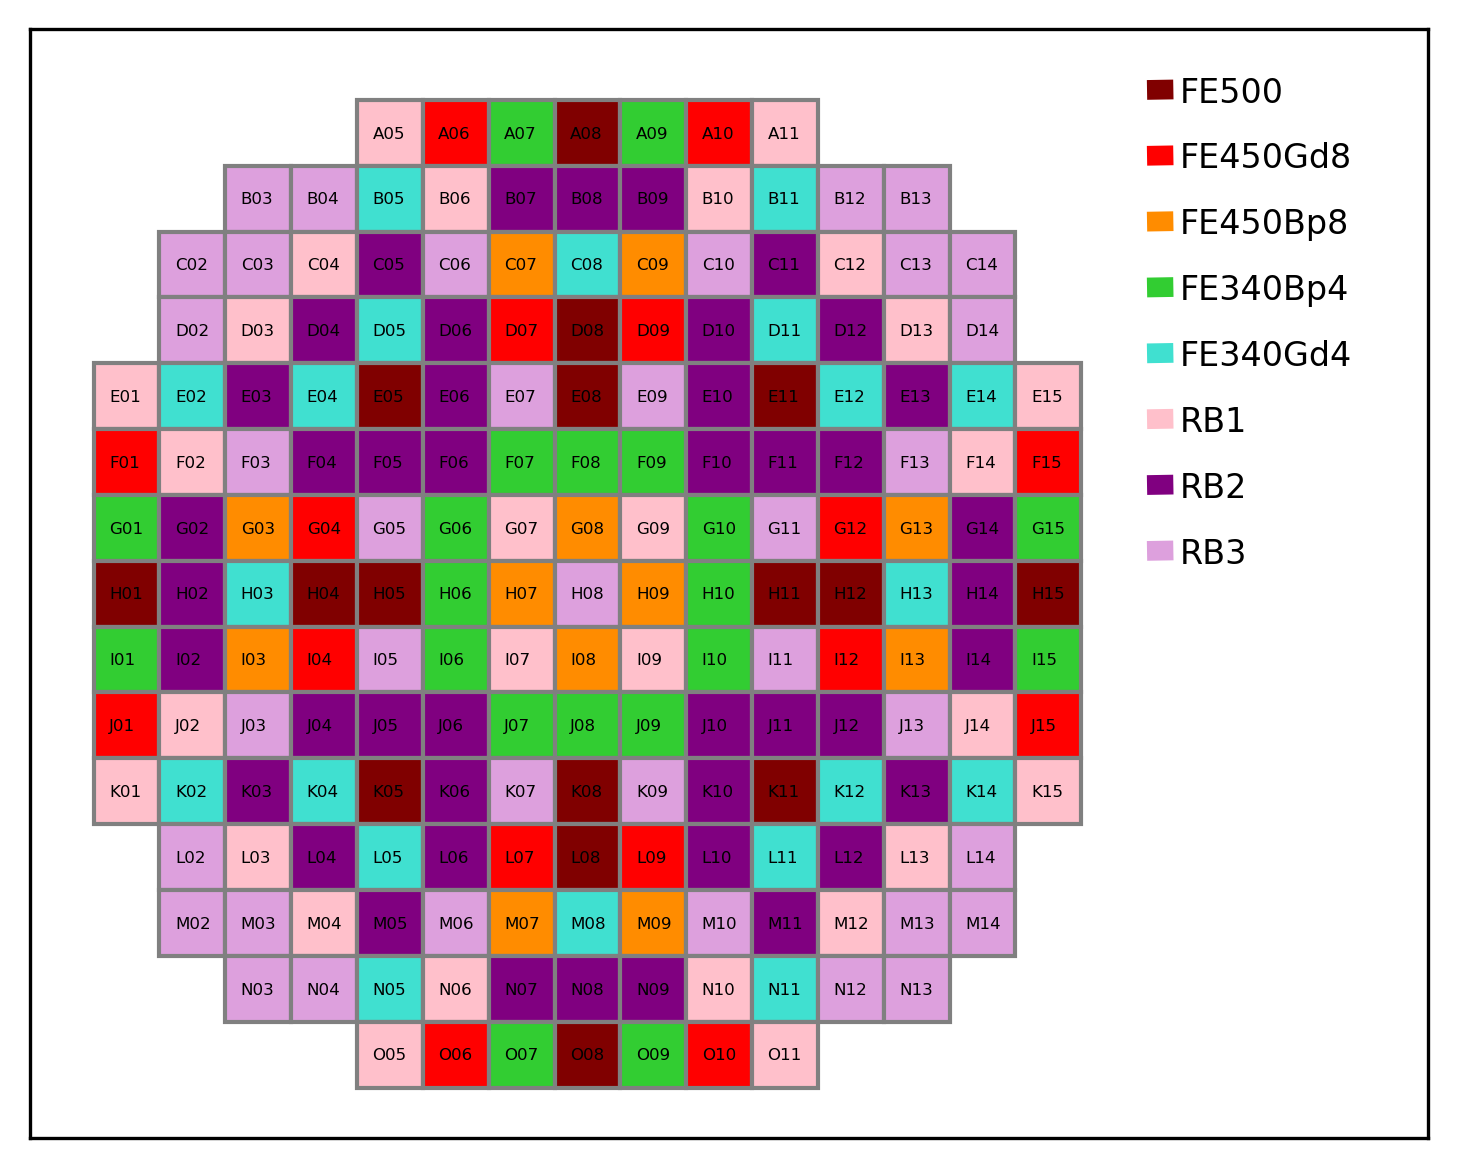
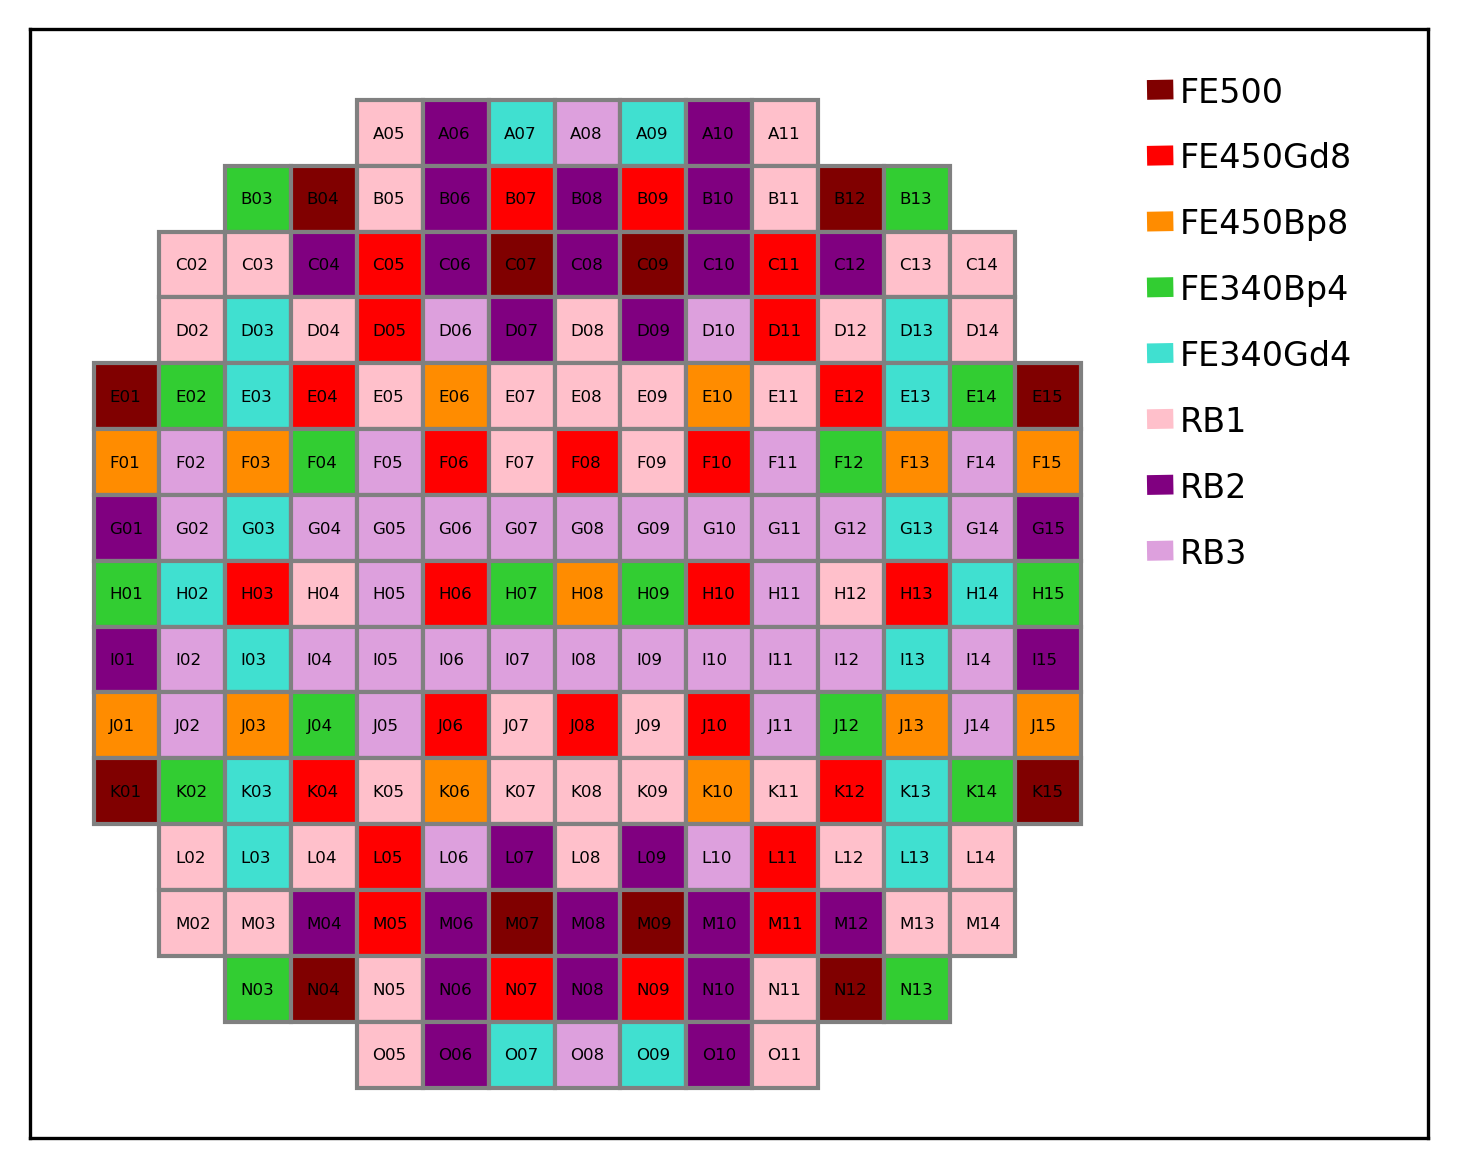
update

diff --git a/core_optimization.py b/core_optimization.py
@@ -318,8 +318,30 @@ class Simulate3_Core_17_17():
 
         Written by Gregory Delipei 7/14/2022
         """
-        pass
+        avail_actions = self.get_actions()
+        action_type = act['Type']
+        action_location = act['Location']
+        action = act['Value']
 
+        if action in avail_actions[action_type][action_location]:
+            if action_type =='Exchange':
+                loc_value = self.core_dict['core'][action_location]['Value']
+                action_value = self.core_dict['core'][action]['Value']
+                self.core_dict['core'][action_location]['Value'] = action_value
+                self.core_dict['fuel'][action_location]['Value'] = action_value
+                self.core_dict['core'][action]['Value'] = loc_value
+                self.core_dict['fuel'][action]['Value'] = loc_value
+            elif action_type=='Change':
+                loc_value = self.core_dict['core'][action_location]['Value']
+                loc_symmetry=len(self.core_dict['fuel'][action_location]['Symmetric_Assemblies'])+1
+                self.core_dict['core'][action_location]['Value'] = action
+                self.core_dict['fuel'][action_location]['Value'] = action
+                self.core_dict['Inventory'][loc_value]['In_Design']-=loc_symmetry
+                self.core_dict['Inventory'][action]['In_Design']+=loc_symmetry
+        else:
+            raise ValueError(
+                f"The selected action is not valid."
+            )
         return
 
     def get_actions(self):
@@ -518,15 +540,15 @@ if __name__ == "__main__":
 
 
     core_inventory={'FE500': {'Max_Limit':np.inf, 'In_Design':0, 'Cost':0, 'Tag':'E500'},
-                    'FE450Gd8': {'Max_Limit':20, 'In_Design':0, 'Cost':0, 'Tag':'FE450Gd8'},
-                    'FE450Bp8': {'Max_Limit':20, 'In_Design':0, 'Cost':0, 'Tag':'FE450Bp8'},
+                    'FE450Gd8': {'Max_Limit':48, 'In_Design':0, 'Cost':0, 'Tag':'FE450Gd8'},
+                    'FE450Bp8': {'Max_Limit':48, 'In_Design':0, 'Cost':0, 'Tag':'FE450Bp8'},
                     'FE340Bp4': {'Max_Limit':48, 'In_Design':0, 'Cost':0, 'Tag':'FE340Bp4'},
                     'FE340Gd4': {'Max_Limit':48, 'In_Design':0, 'Cost':0, 'Tag':'FE340Gd4'},
                     'RB1': {'Max_Limit':45, 'In_Design':0, 'Cost':0, 'Tag':'RB1'},
                     'RB2': {'Max_Limit':45, 'In_Design':0, 'Cost':0, 'Tag':'RB2'},
                     'RB3': {'Max_Limit':40, 'In_Design':0, 'Cost':0, 'Tag':'RB3'}
                     }
-    core_inventory_groups={'Fresh': {'Values':['FE500','FE450Gd8','FE450Bp8','FE340Bp4','FE340Gd4'], 'Limit': 'Exact', 'Limit_Value':84},
+    core_inventory_groups={'Fresh': {'Values':['FE500','FE450Gd8','FE450Bp8','FE340Bp4','FE340Gd4'], 'Limit': 'Exact', 'Limit_Value':85},
                         'Reload': {'Values':['RB1','RB2','RB3'], 'Limit': 'Max', 'Limit_Value':200 }
                         }
 
@@ -551,3 +573,16 @@ if __name__ == "__main__":
     act=at.get_actions()
     sum_act=len(act['Exchange'][loc]) + len(act['Change'][loc])
     print(f"Sum of Actions for {loc}: {sum_act}")
+
+    loc = 'K10'
+    sact={'Type': 'Change',
+            'Location': loc,
+            'Value': act['Change'][loc][0]}
+
+    loc_value = at.core_dict['core'][loc]['Value']
+    print(f"Location In Design before action: {at.core_dict['Inventory'][loc_value]['In_Design']}")
+    print(f"Action In Design before action: {at.core_dict['Inventory'][act['Change'][loc][0]]['In_Design']}")
+    at.action(sact)
+    at.plot_design('core_plot_act.png')
+    print(f"Location In Design after action: {at.core_dict['Inventory'][loc_value]['In_Design']}")
+    print(f"Action In Design after action: {at.core_dict['Inventory'][act['Change'][loc][0]]['In_Design']}")
